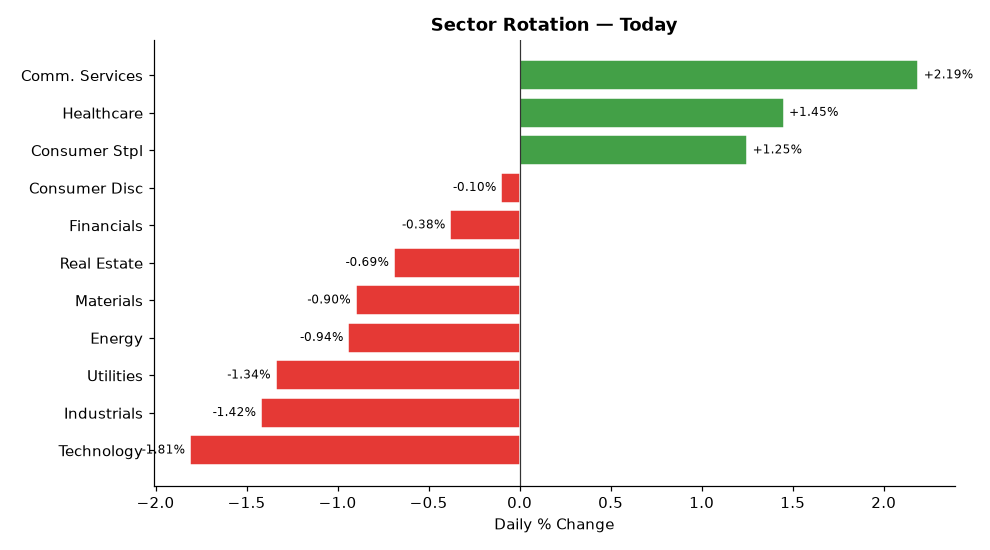
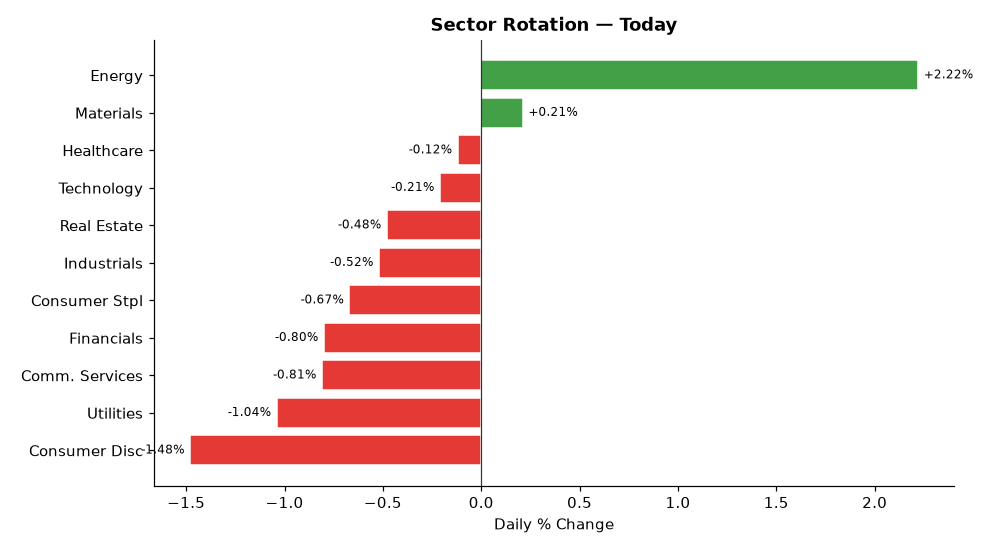
deploy: b7fadf5b06deb90e7ebb92f278722414bdd9750d

diff --git a/index.html b/index.html
@@ -4,7 +4,7 @@
   <meta charset="UTF-8">
   <meta name="viewport" content="width=device-width,initial-scale=1">
   <meta http-equiv="Cache-Control" content="no-cache,no-store,must-revalidate">
-  <title>Stock Breakout Screener — 2026-09-15 04:16</title>
+  <title>Stock Breakout Screener — 2026-09-15 17:26</title>
   <style>
     *{box-sizing:border-box;margin:0;padding:0}
     body{font-family:'Segoe UI',Arial,sans-serif;background:#f0f2f5;
@@ -34,20 +34,20 @@
 
 <div class="hdr">
   <h1>📈 Stock Breakout Screener</h1>
-  <p>Updated: 2026-09-15 04:16 UTC &nbsp;·&nbsp; Phase: Pre-Market (before 9:30 AM ET) &nbsp;·&nbsp;
+  <p>Updated: 2026-09-15 17:26 UTC &nbsp;·&nbsp; Phase: Regular Market Hours &nbsp;·&nbsp;
      129 stocks screened &nbsp;·&nbsp; Top 5 by conviction score</p>
 </div>
 
 <div class="card">
   <strong style="font-size:14px">Market Sentiment: 🐻 Bearish</strong>
   <div class="bar-wrap" style="margin-top:10px">
-    <div style="width:1%;background:#43a047"></div>
-    <div style="width:7%;background:#fdd835"></div>
+    <div style="width:2%;background:#43a047"></div>
+    <div style="width:6%;background:#fdd835"></div>
     <div style="width:92%;background:#e53935"></div>
   </div>
   <div style="font-size:12px;color:#555">
-    🟢 Strong 1% &nbsp;
-    🟡 Moderate 7% &nbsp;
+    🟢 Strong 2% &nbsp;
+    🟡 Moderate 6% &nbsp;
     🔴 Weak 92%
   </div>
 </div>
@@ -60,16 +60,33 @@
           <div style="display:flex;align-items:center;gap:10px;
                       flex-wrap:wrap;margin-bottom:10px">
             <span style="font-size:22px">🟢</span>
-            <span style="font-size:19px;font-weight:700">1. QCOM</span>
-            <span style="font-size:12px;color:#666">Technology</span>
+            <span style="font-size:19px;font-weight:700">1. VLO</span>
+            <span style="font-size:12px;color:#666">Energy</span>
             <span style="margin-left:auto;background:#1a237e;color:#fff;
                          padding:3px 12px;border-radius:12px;
                          font-size:13px;font-weight:600">
-              12/17
+              13/17
             </span>
           </div>
           <ul style="margin:0;padding-left:18px;font-size:13px;
-                     color:#333;line-height:1.8"><li style="margin:5px 0"><span style="background:#ffebee;color:#b71c1c;padding:2px 7px;border-radius:4px;font-size:11px;">❌</span> Volume: <b>0.8× average</b> — Above-average activity</li><li style="margin:5px 0"><span style="background:#e8f5e9;color:#2e7d32;padding:2px 7px;border-radius:4px;font-size:11px;">✅</span> Candle: close <b>$180.15</b> vs open <b>$170.78</b> (+5.5%) — regular market close</li><li style="margin:5px 0"><span style="background:#e8f5e9;color:#2e7d32;padding:2px 7px;border-radius:4px;font-size:11px;">✅</span> 200-Day MA: price <b>$180.15</b> vs MA <b>$172.96</b> — <b>✅ Above</b> long-term trend</li><li style="margin:5px 0"><span style="background:#e8f5e9;color:#2e7d32;padding:2px 7px;border-radius:4px;font-size:11px;">✅</span> Inst. ownership: <b>83.1%</b> · MFI: <b>72.9</b> · Market cap: <b>$192.4B</b></li><li style="margin:5px 0"><span style="background:#e8f5e9;color:#2e7d32;padding:2px 7px;border-radius:4px;font-size:11px;">✅</span> Last similar breakout: <b>May 07, 2026</b> → <b>+5.4%</b> over 10 trading days</li></ul>
+                     color:#333;line-height:1.8"><li style="margin:5px 0"><span style="background:#ffebee;color:#b71c1c;padding:2px 7px;border-radius:4px;font-size:11px;">❌</span> Volume: <b>0.6× average</b> — Above-average activity</li><li style="margin:5px 0"><span style="background:#e8f5e9;color:#2e7d32;padding:2px 7px;border-radius:4px;font-size:11px;">✅</span> Candle: close <b>$395.30</b> vs open <b>$383.51</b> (+3.1%) — regular market close</li><li style="margin:5px 0"><span style="background:#e8f5e9;color:#2e7d32;padding:2px 7px;border-radius:4px;font-size:11px;">✅</span> 200-Day MA: price <b>$395.30</b> vs MA <b>$278.04</b> — <b>✅ Above</b> long-term trend</li><li style="margin:5px 0"><span style="background:#e8f5e9;color:#2e7d32;padding:2px 7px;border-radius:4px;font-size:11px;">✅</span> Inst. ownership: <b>87.0%</b> · MFI: <b>80.1</b> · Market cap: <b>$113.8B</b></li></ul>
+        </div>
+        <div style="background:#fff;border:1px solid #ddd;border-radius:10px;
+                    padding:16px 20px;margin-bottom:12px;
+                    box-shadow:0 2px 6px rgba(0,0,0,.07)">
+          <div style="display:flex;align-items:center;gap:10px;
+                      flex-wrap:wrap;margin-bottom:10px">
+            <span style="font-size:22px">🟢</span>
+            <span style="font-size:19px;font-weight:700">2. MPC</span>
+            <span style="font-size:12px;color:#666">Energy</span>
+            <span style="margin-left:auto;background:#1a237e;color:#fff;
+                         padding:3px 12px;border-radius:12px;
+                         font-size:13px;font-weight:600">
+              13/17
+            </span>
+          </div>
+          <ul style="margin:0;padding-left:18px;font-size:13px;
+                     color:#333;line-height:1.8"><li style="margin:5px 0"><span style="background:#ffebee;color:#b71c1c;padding:2px 7px;border-radius:4px;font-size:11px;">❌</span> Volume: <b>0.5× average</b> — Above-average activity</li><li style="margin:5px 0"><span style="background:#e8f5e9;color:#2e7d32;padding:2px 7px;border-radius:4px;font-size:11px;">✅</span> Candle: close <b>$410.70</b> vs open <b>$397.69</b> (+3.3%) — regular market close</li><li style="margin:5px 0"><span style="background:#e8f5e9;color:#2e7d32;padding:2px 7px;border-radius:4px;font-size:11px;">✅</span> 200-Day MA: price <b>$410.70</b> vs MA <b>$281.09</b> — <b>✅ Above</b> long-term trend</li><li style="margin:5px 0"><span style="background:#e8f5e9;color:#2e7d32;padding:2px 7px;border-radius:4px;font-size:11px;">✅</span> Inst. ownership: <b>79.5%</b> · MFI: <b>75.1</b> · Market cap: <b>$115.3B</b></li></ul>
         </div>
         <div style="background:#fff;border:1px solid #ddd;border-radius:10px;
                     padding:16px 20px;margin-bottom:12px;
@@ -77,8 +94,8 @@
           <div style="display:flex;align-items:center;gap:10px;
                       flex-wrap:wrap;margin-bottom:10px">
             <span style="font-size:22px">🟡</span>
-            <span style="font-size:19px;font-weight:700">2. META</span>
-            <span style="font-size:12px;color:#666">Comm. Services</span>
+            <span style="font-size:19px;font-weight:700">3. XOM</span>
+            <span style="font-size:12px;color:#666">Energy</span>
             <span style="margin-left:auto;background:#1a237e;color:#fff;
                          padding:3px 12px;border-radius:12px;
                          font-size:13px;font-weight:600">
@@ -86,7 +103,7 @@
             </span>
           </div>
           <ul style="margin:0;padding-left:18px;font-size:13px;
-                     color:#333;line-height:1.8"><li style="margin:5px 0"><span style="background:#ffebee;color:#b71c1c;padding:2px 7px;border-radius:4px;font-size:11px;">❌</span> Volume: <b>1.1× average</b> — Above-average activity</li><li style="margin:5px 0"><span style="background:#ffebee;color:#b71c1c;padding:2px 7px;border-radius:4px;font-size:11px;">❌</span> Candle: close <b>$665.60</b> vs open <b>$657.83</b> (+1.2%) — regular market close</li><li style="margin:5px 0"><span style="background:#e8f5e9;color:#2e7d32;padding:2px 7px;border-radius:4px;font-size:11px;">✅</span> 200-Day MA: price <b>$665.60</b> vs MA <b>$605.07</b> — <b>✅ Above</b> long-term trend</li><li style="margin:5px 0"><span style="background:#e8f5e9;color:#2e7d32;padding:2px 7px;border-radius:4px;font-size:11px;">✅</span> Inst. ownership: <b>79.0%</b> · MFI: <b>75.8</b> · Market cap: <b>$1695.6B</b></li></ul>
+                     color:#333;line-height:1.8"><li style="margin:5px 0"><span style="background:#ffebee;color:#b71c1c;padding:2px 7px;border-radius:4px;font-size:11px;">❌</span> Volume: <b>0.3× average</b> — Above-average activity</li><li style="margin:5px 0"><span style="background:#ffebee;color:#b71c1c;padding:2px 7px;border-radius:4px;font-size:11px;">❌</span> Candle: close <b>$169.44</b> vs open <b>$165.36</b> (+2.5%) — regular market close</li><li style="margin:5px 0"><span style="background:#e8f5e9;color:#2e7d32;padding:2px 7px;border-radius:4px;font-size:11px;">✅</span> 200-Day MA: price <b>$169.44</b> vs MA <b>$152.12</b> — <b>✅ Above</b> long-term trend</li><li style="margin:5px 0"><span style="background:#e8f5e9;color:#2e7d32;padding:2px 7px;border-radius:4px;font-size:11px;">✅</span> Inst. ownership: <b>67.1%</b> · MFI: <b>62.6</b> · Market cap: <b>$696.8B</b></li></ul>
         </div>
         <div style="background:#fff;border:1px solid #ddd;border-radius:10px;
                     padding:16px 20px;margin-bottom:12px;
@@ -94,8 +111,8 @@
           <div style="display:flex;align-items:center;gap:10px;
                       flex-wrap:wrap;margin-bottom:10px">
             <span style="font-size:22px">🟡</span>
-            <span style="font-size:19px;font-weight:700">3. VZ</span>
-            <span style="font-size:12px;color:#666">Comm. Services</span>
+            <span style="font-size:19px;font-weight:700">4. CVX</span>
+            <span style="font-size:12px;color:#666">Energy</span>
             <span style="margin-left:auto;background:#1a237e;color:#fff;
                          padding:3px 12px;border-radius:12px;
                          font-size:13px;font-weight:600">
@@ -103,7 +120,7 @@
             </span>
           </div>
           <ul style="margin:0;padding-left:18px;font-size:13px;
-                     color:#333;line-height:1.8"><li style="margin:5px 0"><span style="background:#ffebee;color:#b71c1c;padding:2px 7px;border-radius:4px;font-size:11px;">❌</span> Volume: <b>0.7× average</b> — Above-average activity</li><li style="margin:5px 0"><span style="background:#ffebee;color:#b71c1c;padding:2px 7px;border-radius:4px;font-size:11px;">❌</span> Candle: close <b>$51.29</b> vs open <b>$50.94</b> (+0.7%) — regular market close</li><li style="margin:5px 0"><span style="background:#e8f5e9;color:#2e7d32;padding:2px 7px;border-radius:4px;font-size:11px;">✅</span> 200-Day MA: price <b>$51.29</b> vs MA <b>$46.63</b> — <b>✅ Above</b> long-term trend</li><li style="margin:5px 0"><span style="background:#e8f5e9;color:#2e7d32;padding:2px 7px;border-radius:4px;font-size:11px;">✅</span> Inst. ownership: <b>71.2%</b> · MFI: <b>66.4</b> · Market cap: <b>$213.1B</b></li></ul>
+                     color:#333;line-height:1.8"><li style="margin:5px 0"><span style="background:#ffebee;color:#b71c1c;padding:2px 7px;border-radius:4px;font-size:11px;">❌</span> Volume: <b>0.4× average</b> — Above-average activity</li><li style="margin:5px 0"><span style="background:#ffebee;color:#b71c1c;padding:2px 7px;border-radius:4px;font-size:11px;">❌</span> Candle: close <b>$216.59</b> vs open <b>$212.88</b> (+1.7%) — regular market close</li><li style="margin:5px 0"><span style="background:#e8f5e9;color:#2e7d32;padding:2px 7px;border-radius:4px;font-size:11px;">✅</span> 200-Day MA: price <b>$216.59</b> vs MA <b>$189.51</b> — <b>✅ Above</b> long-term trend</li><li style="margin:5px 0"><span style="background:#e8f5e9;color:#2e7d32;padding:2px 7px;border-radius:4px;font-size:11px;">✅</span> Inst. ownership: <b>71.2%</b> · MFI: <b>72.4</b> · Market cap: <b>$424.9B</b></li></ul>
         </div>
         <div style="background:#fff;border:1px solid #ddd;border-radius:10px;
                     padding:16px 20px;margin-bottom:12px;
@@ -111,8 +128,8 @@
           <div style="display:flex;align-items:center;gap:10px;
                       flex-wrap:wrap;margin-bottom:10px">
             <span style="font-size:22px">🟡</span>
-            <span style="font-size:19px;font-weight:700">4. T</span>
-            <span style="font-size:12px;color:#666">Comm. Services</span>
+            <span style="font-size:19px;font-weight:700">5. OKE</span>
+            <span style="font-size:12px;color:#666">Energy</span>
             <span style="margin-left:auto;background:#1a237e;color:#fff;
                          padding:3px 12px;border-radius:12px;
                          font-size:13px;font-weight:600">
@@ -120,24 +137,7 @@
             </span>
           </div>
           <ul style="margin:0;padding-left:18px;font-size:13px;
-                     color:#333;line-height:1.8"><li style="margin:5px 0"><span style="background:#ffebee;color:#b71c1c;padding:2px 7px;border-radius:4px;font-size:11px;">❌</span> Volume: <b>0.8× average</b> — Above-average activity</li><li style="margin:5px 0"><span style="background:#ffebee;color:#b71c1c;padding:2px 7px;border-radius:4px;font-size:11px;">❌</span> Candle: close <b>$26.51</b> vs open <b>$26.38</b> (+0.5%) — regular market close</li><li style="margin:5px 0"><span style="background:#e8f5e9;color:#2e7d32;padding:2px 7px;border-radius:4px;font-size:11px;">✅</span> 200-Day MA: price <b>$26.51</b> vs MA <b>$24.51</b> — <b>✅ Above</b> long-term trend</li><li style="margin:5px 0"><span style="background:#e8f5e9;color:#2e7d32;padding:2px 7px;border-radius:4px;font-size:11px;">✅</span> Inst. ownership: <b>68.4%</b> · MFI: <b>63.2</b> · Market cap: <b>$181.7B</b></li></ul>
-        </div>
-        <div style="background:#fff;border:1px solid #ddd;border-radius:10px;
-                    padding:16px 20px;margin-bottom:12px;
-                    box-shadow:0 2px 6px rgba(0,0,0,.07)">
-          <div style="display:flex;align-items:center;gap:10px;
-                      flex-wrap:wrap;margin-bottom:10px">
-            <span style="font-size:22px">🟡</span>
-            <span style="font-size:19px;font-weight:700">5. AAPL</span>
-            <span style="font-size:12px;color:#666">Technology</span>
-            <span style="margin-left:auto;background:#1a237e;color:#fff;
-                         padding:3px 12px;border-radius:12px;
-                         font-size:13px;font-weight:600">
-              10/17
-            </span>
-          </div>
-          <ul style="margin:0;padding-left:18px;font-size:13px;
-                     color:#333;line-height:1.8"><li style="margin:5px 0"><span style="background:#ffebee;color:#b71c1c;padding:2px 7px;border-radius:4px;font-size:11px;">❌</span> Volume: <b>0.8× average</b> — Above-average activity</li><li style="margin:5px 0"><span style="background:#ffebee;color:#b71c1c;padding:2px 7px;border-radius:4px;font-size:11px;">❌</span> Candle: close <b>$333.08</b> vs open <b>$334.79</b> (-0.5%) — regular market close</li><li style="margin:5px 0"><span style="background:#e8f5e9;color:#2e7d32;padding:2px 7px;border-radius:4px;font-size:11px;">✅</span> 200-Day MA: price <b>$333.08</b> vs MA <b>$295.54</b> — <b>✅ Above</b> long-term trend</li><li style="margin:5px 0"><span style="background:#e8f5e9;color:#2e7d32;padding:2px 7px;border-radius:4px;font-size:11px;">✅</span> Inst. ownership: <b>66.3%</b> · MFI: <b>65.7</b> · Market cap: <b>$4861.0B</b></li><li style="margin:5px 0"><span style="background:#e8f5e9;color:#2e7d32;padding:2px 7px;border-radius:4px;font-size:11px;">✅</span> Last similar breakout: <b>Jun 26, 2026</b> → <b>+11.8%</b> over 10 trading days</li></ul>
+                     color:#333;line-height:1.8"><li style="margin:5px 0"><span style="background:#ffebee;color:#b71c1c;padding:2px 7px;border-radius:4px;font-size:11px;">❌</span> Volume: <b>0.3× average</b> — Above-average activity</li><li style="margin:5px 0"><span style="background:#ffebee;color:#b71c1c;padding:2px 7px;border-radius:4px;font-size:11px;">❌</span> Candle: close <b>$96.15</b> vs open <b>$96.88</b> (-0.7%) — regular market close</li><li style="margin:5px 0"><span style="background:#e8f5e9;color:#2e7d32;padding:2px 7px;border-radius:4px;font-size:11px;">✅</span> 200-Day MA: price <b>$96.15</b> vs MA <b>$89.00</b> — <b>✅ Above</b> long-term trend</li><li style="margin:5px 0"><span style="background:#e8f5e9;color:#2e7d32;padding:2px 7px;border-radius:4px;font-size:11px;">✅</span> Inst. ownership: <b>84.8%</b> · MFI: <b>67.2</b> · Market cap: <b>$60.6B</b></li></ul>
         </div>
 
 
@@ -168,93 +168,93 @@
   
         <tr>
           <td style="font-weight:700;text-align:left;padding-left:10px">
-            🟢 QCOM</td>
-          <td style="background:#ffcdd2">0.8×</td>
-          <td style="background:#c8e6c9">+5.5%</td>
+            🟢 VLO</td>
+          <td style="background:#ffcdd2">0.6×</td>
+          <td style="background:#c8e6c9">+3.1%</td>
           <td style="background:#c8e6c9">
             ▲ Above</td>
           <td style="background:#c8e6c9">
-            83.1%</td>
+            87.0%</td>
           <td style="background:#c8e6c9">
-            72.9</td>
-          <td style="background:#ffcdd2">Technology</td>
+            80.1</td>
+          <td style="background:#c8e6c9">Energy</td>
           <td style="background:#c8e6c9">
-            160.4%</td>
-          <td style="background:#c8e6c9">
-            +5.4%</td>
-          <td style="font-weight:800;font-size:15px">12/17</td>
+            149.2%</td>
+          <td style="background:#ffcdd2">
+            N/A</td>
+          <td style="font-weight:800;font-size:15px">13/17</td>
         </tr>
         <tr>
           <td style="font-weight:700;text-align:left;padding-left:10px">
-            🟡 META</td>
-          <td style="background:#ffcdd2">1.1×</td>
-          <td style="background:#ffcdd2">+1.2%</td>
+            🟢 MPC</td>
+          <td style="background:#ffcdd2">0.5×</td>
+          <td style="background:#c8e6c9">+3.3%</td>
           <td style="background:#c8e6c9">
             ▲ Above</td>
           <td style="background:#c8e6c9">
-            79.0%</td>
+            79.5%</td>
           <td style="background:#c8e6c9">
-            75.8</td>
-          <td style="background:#c8e6c9">Comm. Services</td>
+            75.1</td>
+          <td style="background:#c8e6c9">Energy</td>
           <td style="background:#c8e6c9">
-            72.3%</td>
+            284.4%</td>
+          <td style="background:#ffcdd2">
+            N/A</td>
+          <td style="font-weight:800;font-size:15px">13/17</td>
+        </tr>
+        <tr>
+          <td style="font-weight:700;text-align:left;padding-left:10px">
+            🟡 XOM</td>
+          <td style="background:#ffcdd2">0.3×</td>
+          <td style="background:#ffcdd2">+2.5%</td>
+          <td style="background:#c8e6c9">
+            ▲ Above</td>
+          <td style="background:#c8e6c9">
+            67.1%</td>
+          <td style="background:#c8e6c9">
+            62.6</td>
+          <td style="background:#c8e6c9">Energy</td>
+          <td style="background:#c8e6c9">
+            132.7%</td>
           <td style="background:#ffcdd2">
             N/A</td>
           <td style="font-weight:800;font-size:15px">11/17</td>
         </tr>
         <tr>
           <td style="font-weight:700;text-align:left;padding-left:10px">
-            🟡 VZ</td>
-          <td style="background:#ffcdd2">0.7×</td>
-          <td style="background:#ffcdd2">+0.7%</td>
+            🟡 CVX</td>
+          <td style="background:#ffcdd2">0.4×</td>
+          <td style="background:#ffcdd2">+1.7%</td>
           <td style="background:#c8e6c9">
             ▲ Above</td>
           <td style="background:#c8e6c9">
             71.2%</td>
           <td style="background:#c8e6c9">
-            66.4</td>
-          <td style="background:#c8e6c9">Comm. Services</td>
+            72.4</td>
+          <td style="background:#c8e6c9">Energy</td>
           <td style="background:#c8e6c9">
-            132.8%</td>
+            160.2%</td>
           <td style="background:#ffcdd2">
             N/A</td>
           <td style="font-weight:800;font-size:15px">11/17</td>
         </tr>
         <tr>
           <td style="font-weight:700;text-align:left;padding-left:10px">
-            🟡 T</td>
-          <td style="background:#ffcdd2">0.8×</td>
-          <td style="background:#ffcdd2">+0.5%</td>
+            🟡 OKE</td>
+          <td style="background:#ffcdd2">0.3×</td>
+          <td style="background:#ffcdd2">-0.7%</td>
           <td style="background:#c8e6c9">
             ▲ Above</td>
           <td style="background:#c8e6c9">
-            68.4%</td>
+            84.8%</td>
           <td style="background:#c8e6c9">
-            63.2</td>
-          <td style="background:#c8e6c9">Comm. Services</td>
+            67.2</td>
+          <td style="background:#c8e6c9">Energy</td>
           <td style="background:#c8e6c9">
-            144.7%</td>
+            79.3%</td>
           <td style="background:#ffcdd2">
             N/A</td>
           <td style="font-weight:800;font-size:15px">11/17</td>
-        </tr>
-        <tr>
-          <td style="font-weight:700;text-align:left;padding-left:10px">
-            🟡 AAPL</td>
-          <td style="background:#ffcdd2">0.8×</td>
-          <td style="background:#ffcdd2">-0.5%</td>
-          <td style="background:#c8e6c9">
-            ▲ Above</td>
-          <td style="background:#c8e6c9">
-            66.3%</td>
-          <td style="background:#c8e6c9">
-            65.7</td>
-          <td style="background:#ffcdd2">Technology</td>
-          <td style="background:#c8e6c9">
-            68.5%</td>
-          <td style="background:#c8e6c9">
-            +11.8%</td>
-          <td style="font-weight:800;font-size:15px">10/17</td>
         </tr>
 </table>
 </div>
@@ -277,58 +277,58 @@
       
         <tr>
           <td style="text-align:left;padding-left:10px;font-weight:600">
-            #1 Comm. Services</td>
-          <td style="background:#e8f5e9;color:#2e7d32;font-weight:700">+2.19%</td>
+            #1 Energy</td>
+          <td style="background:#e8f5e9;color:#2e7d32;font-weight:700">+2.22%</td>
         </tr>
         <tr>
           <td style="text-align:left;padding-left:10px;font-weight:600">
-            #2 Healthcare</td>
-          <td style="background:#e8f5e9;color:#2e7d32;font-weight:700">+1.45%</td>
+            #2 Materials</td>
+          <td style="background:#e8f5e9;color:#2e7d32;font-weight:700">+0.21%</td>
         </tr>
         <tr>
           <td style="text-align:left;padding-left:10px;font-weight:600">
-            #3 Consumer Stpl</td>
-          <td style="background:#e8f5e9;color:#2e7d32;font-weight:700">+1.25%</td>
+            #3 Healthcare</td>
+          <td style="background:#ffebee;color:#c62828;font-weight:700">-0.12%</td>
         </tr>
         <tr>
           <td style="text-align:left;padding-left:10px;font-weight:600">
-            #4 Consumer Disc</td>
-          <td style="background:#ffebee;color:#c62828;font-weight:700">-0.10%</td>
+            #4 Technology</td>
+          <td style="background:#ffebee;color:#c62828;font-weight:700">-0.21%</td>
         </tr>
         <tr>
           <td style="text-align:left;padding-left:10px;font-weight:600">
-            #5 Financials</td>
-          <td style="background:#ffebee;color:#c62828;font-weight:700">-0.38%</td>
+            #5 Real Estate</td>
+          <td style="background:#ffebee;color:#c62828;font-weight:700">-0.48%</td>
         </tr>
         <tr>
           <td style="text-align:left;padding-left:10px;font-weight:600">
-            #6 Real Estate</td>
-          <td style="background:#ffebee;color:#c62828;font-weight:700">-0.69%</td>
+            #6 Industrials</td>
+          <td style="background:#ffebee;color:#c62828;font-weight:700">-0.52%</td>
         </tr>
         <tr>
           <td style="text-align:left;padding-left:10px;font-weight:600">
-            #7 Materials</td>
-          <td style="background:#ffebee;color:#c62828;font-weight:700">-0.90%</td>
+            #7 Consumer Stpl</td>
+          <td style="background:#ffebee;color:#c62828;font-weight:700">-0.67%</td>
         </tr>
         <tr>
           <td style="text-align:left;padding-left:10px;font-weight:600">
-            #8 Energy</td>
-          <td style="background:#ffebee;color:#c62828;font-weight:700">-0.94%</td>
+            #8 Financials</td>
+          <td style="background:#ffebee;color:#c62828;font-weight:700">-0.80%</td>
         </tr>
         <tr>
           <td style="text-align:left;padding-left:10px;font-weight:600">
-            #9 Utilities</td>
-          <td style="background:#ffebee;color:#c62828;font-weight:700">-1.34%</td>
+            #9 Comm. Services</td>
+          <td style="background:#ffebee;color:#c62828;font-weight:700">-0.81%</td>
         </tr>
         <tr>
           <td style="text-align:left;padding-left:10px;font-weight:600">
-            #10 Industrials</td>
-          <td style="background:#ffebee;color:#c62828;font-weight:700">-1.42%</td>
+            #10 Utilities</td>
+          <td style="background:#ffebee;color:#c62828;font-weight:700">-1.04%</td>
         </tr>
         <tr>
           <td style="text-align:left;padding-left:10px;font-weight:600">
-            #11 Technology</td>
-          <td style="background:#ffebee;color:#c62828;font-weight:700">-1.81%</td>
+            #11 Consumer Disc</td>
+          <td style="background:#ffebee;color:#c62828;font-weight:700">-1.48%</td>
         </tr>
     </table>
   </div>
@@ -367,7 +367,7 @@
         <li><b>Scoring weights:</b>
             Inst.Own(3) · Sector(3) · Volume(2) · Breakout(2) ·
             MA200(2) · MFI(2) · History(2) · IV(1) = 17pts max</li>
-        <li><b>Run time:</b> 2026-09-15 04:16 UTC — Market phase: Pre-Market (before 9:30 AM ET)</li>
+        <li><b>Run time:</b> 2026-09-15 17:26 UTC — Market phase: Regular Market Hours</li>
       </ul>
     </div>
 
